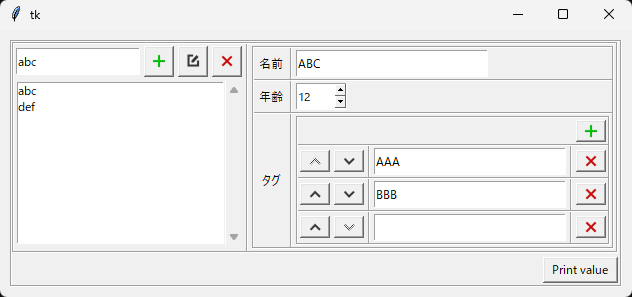
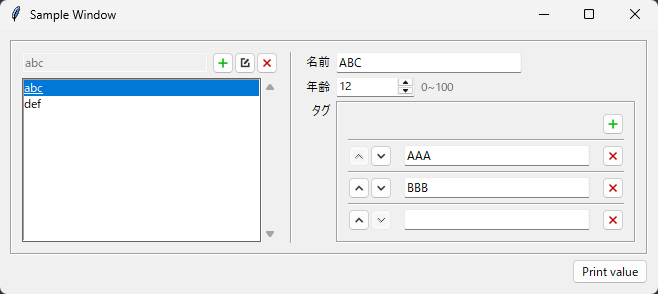
update: README.md 内のサンプルコードを最新仕様に合わせて更新しました。 update: 上記の更新に合わせて、掲載されていたスクリーンショットを最新のものに差し替えました。 add: README.md 内のサンプルコードと同じ内容のスクリプトを sample/overview.py として保存しました。

diff --git a/sample/overview.py b/sample/overview.py
@@ -1,0 +1,59 @@
+
+import uilib
+import tkinter
+
+tk = tkinter.Tk()
+tk.title("Sample Window")
+ui_root = uilib.ui.layout.UI_Layout(
+  [
+    [
+      (
+        uilib.ui.value.UI_Dict(
+          {}, #初期状態は空
+          add_func=lambda: uilib.ui.value.UI_HardDict( #要素追加時に UI_HardDict を作成する
+            {
+              "name": uilib.ui.value.UI_Str(""),
+              "age": uilib.ui.value.UI_Int(0, (0, 100, 1)),
+              "tag": uilib.ui.value.UI_List([], add_func=lambda: uilib.ui.value.UI_Str(""))
+            },
+            label_table={
+              "name": "名前",
+              "age": "年齢",
+              "tag": "タグ"
+            }
+          )
+        ),
+        "sample_dict"
+      )
+    ],
+    [
+      (
+        uilib.ui.layout.UI_Button(
+          "Print value", 
+          lambda: print(repr(ui_root.get_value())) #ボタン押下時に設定値を表示する
+        ), 
+        "", 
+        1, 
+        1, 
+        tkinter.E
+      )
+    ]
+  ],
+  as_single_value=True #辞書ではなく単体の値として評価する
+)
+ui_root.build(tk).pack(padx=10, pady=10) #tkinter ウィジットを作成し配置する
+ui_root.load_from_param([
+  {
+    "abc": {
+      "name": "ABC",
+      "age": 12,
+      "tag": ["AAA", "BBB", ""]
+    },
+    "def": {
+      "name": "",
+      "age": 0,
+      "tag": []
+    }
+  }
+]) #パラメータからウィジットの状態を復元する
+tk.mainloop()

diff --git a/README.md b/README.md
@@ -26,42 +26,58 @@ import tkinter
 
 tk = tkinter.Tk()
 tk.title("Sample Window")
-ui_dict = uilib.ui.value.UI_Dict(
-  {}, 
-  add_func=lambda: uilib.ui.value.UI_HardDict(
-    {
-      "name": uilib.ui.value.UI_Str(""),
-      "age": uilib.ui.value.UI_Int(0, (0, 100, 1)),
-      "tag": uilib.ui.value.UI_List([], add_func=lambda: uilib.ui.value.UI_Str(""))
-    },
-    {
-      "name": "名前",
-      "age": "年齢",
-      "tag": "タグ"
-    }
-  )
-)
-ui_button = uilib.ui.layout.UI_Button("Print value", lambda: print(repr(ui_root.get_value()))) #ウィジットの設定値を出力するボタン。
 ui_root = uilib.ui.layout.UI_Layout(
   [
-    [ui_dict],
-    [(ui_button, 1, 1, uilib.enum_.Direction.E)]
+    [
+      (
+        uilib.ui.value.UI_Dict(
+          {}, #初期状態は空
+          add_func=lambda: uilib.ui.value.UI_HardDict( #要素追加時に UI_HardDict を作成する
+            {
+              "name": uilib.ui.value.UI_Str(""),
+              "age": uilib.ui.value.UI_Int(0, (0, 100, 1)),
+              "tag": uilib.ui.value.UI_List([], add_func=lambda: uilib.ui.value.UI_Str(""))
+            },
+            label_table={
+              "name": "名前",
+              "age": "年齢",
+              "tag": "タグ"
+            }
+          )
+        ),
+        "sample_dict"
+      )
+    ],
+    [
+      (
+        uilib.ui.layout.UI_Button(
+          "Print value", 
+          lambda: print(repr(ui_root.get_value())) #ボタン押下時に設定値を表示する
+        ), 
+        "", 
+        1, 
+        1, 
+        tkinter.E
+      )
+    ]
   ],
-  ui_dict
+  as_single_value=True #辞書ではなく単体の値として評価する
 )
-ui_root.build(tk).pack(padx=10, pady=10) #tkinter ウィジットを作成し配置する。
-ui_root.load_from_param({
-  "abc": {
-    "name": "ABC",
-    "age": 12,
-    "tag": ["AAA", "BBB", ""]
-  },
-  "def": {
-    "name": "",
-    "age": 0,
-    "tag": []
+ui_root.build(tk).pack(padx=10, pady=10) #tkinter ウィジットを作成し配置する
+ui_root.load_from_param([
+  {
+    "abc": {
+      "name": "ABC",
+      "age": 12,
+      "tag": ["AAA", "BBB", ""]
+    },
+    "def": {
+      "name": "",
+      "age": 0,
+      "tag": []
+    }
   }
-}) #パラメータからウィジットの状態を復元する。
+]) #パラメータからウィジットの状態を復元する
 tk.mainloop()
 ```
 
